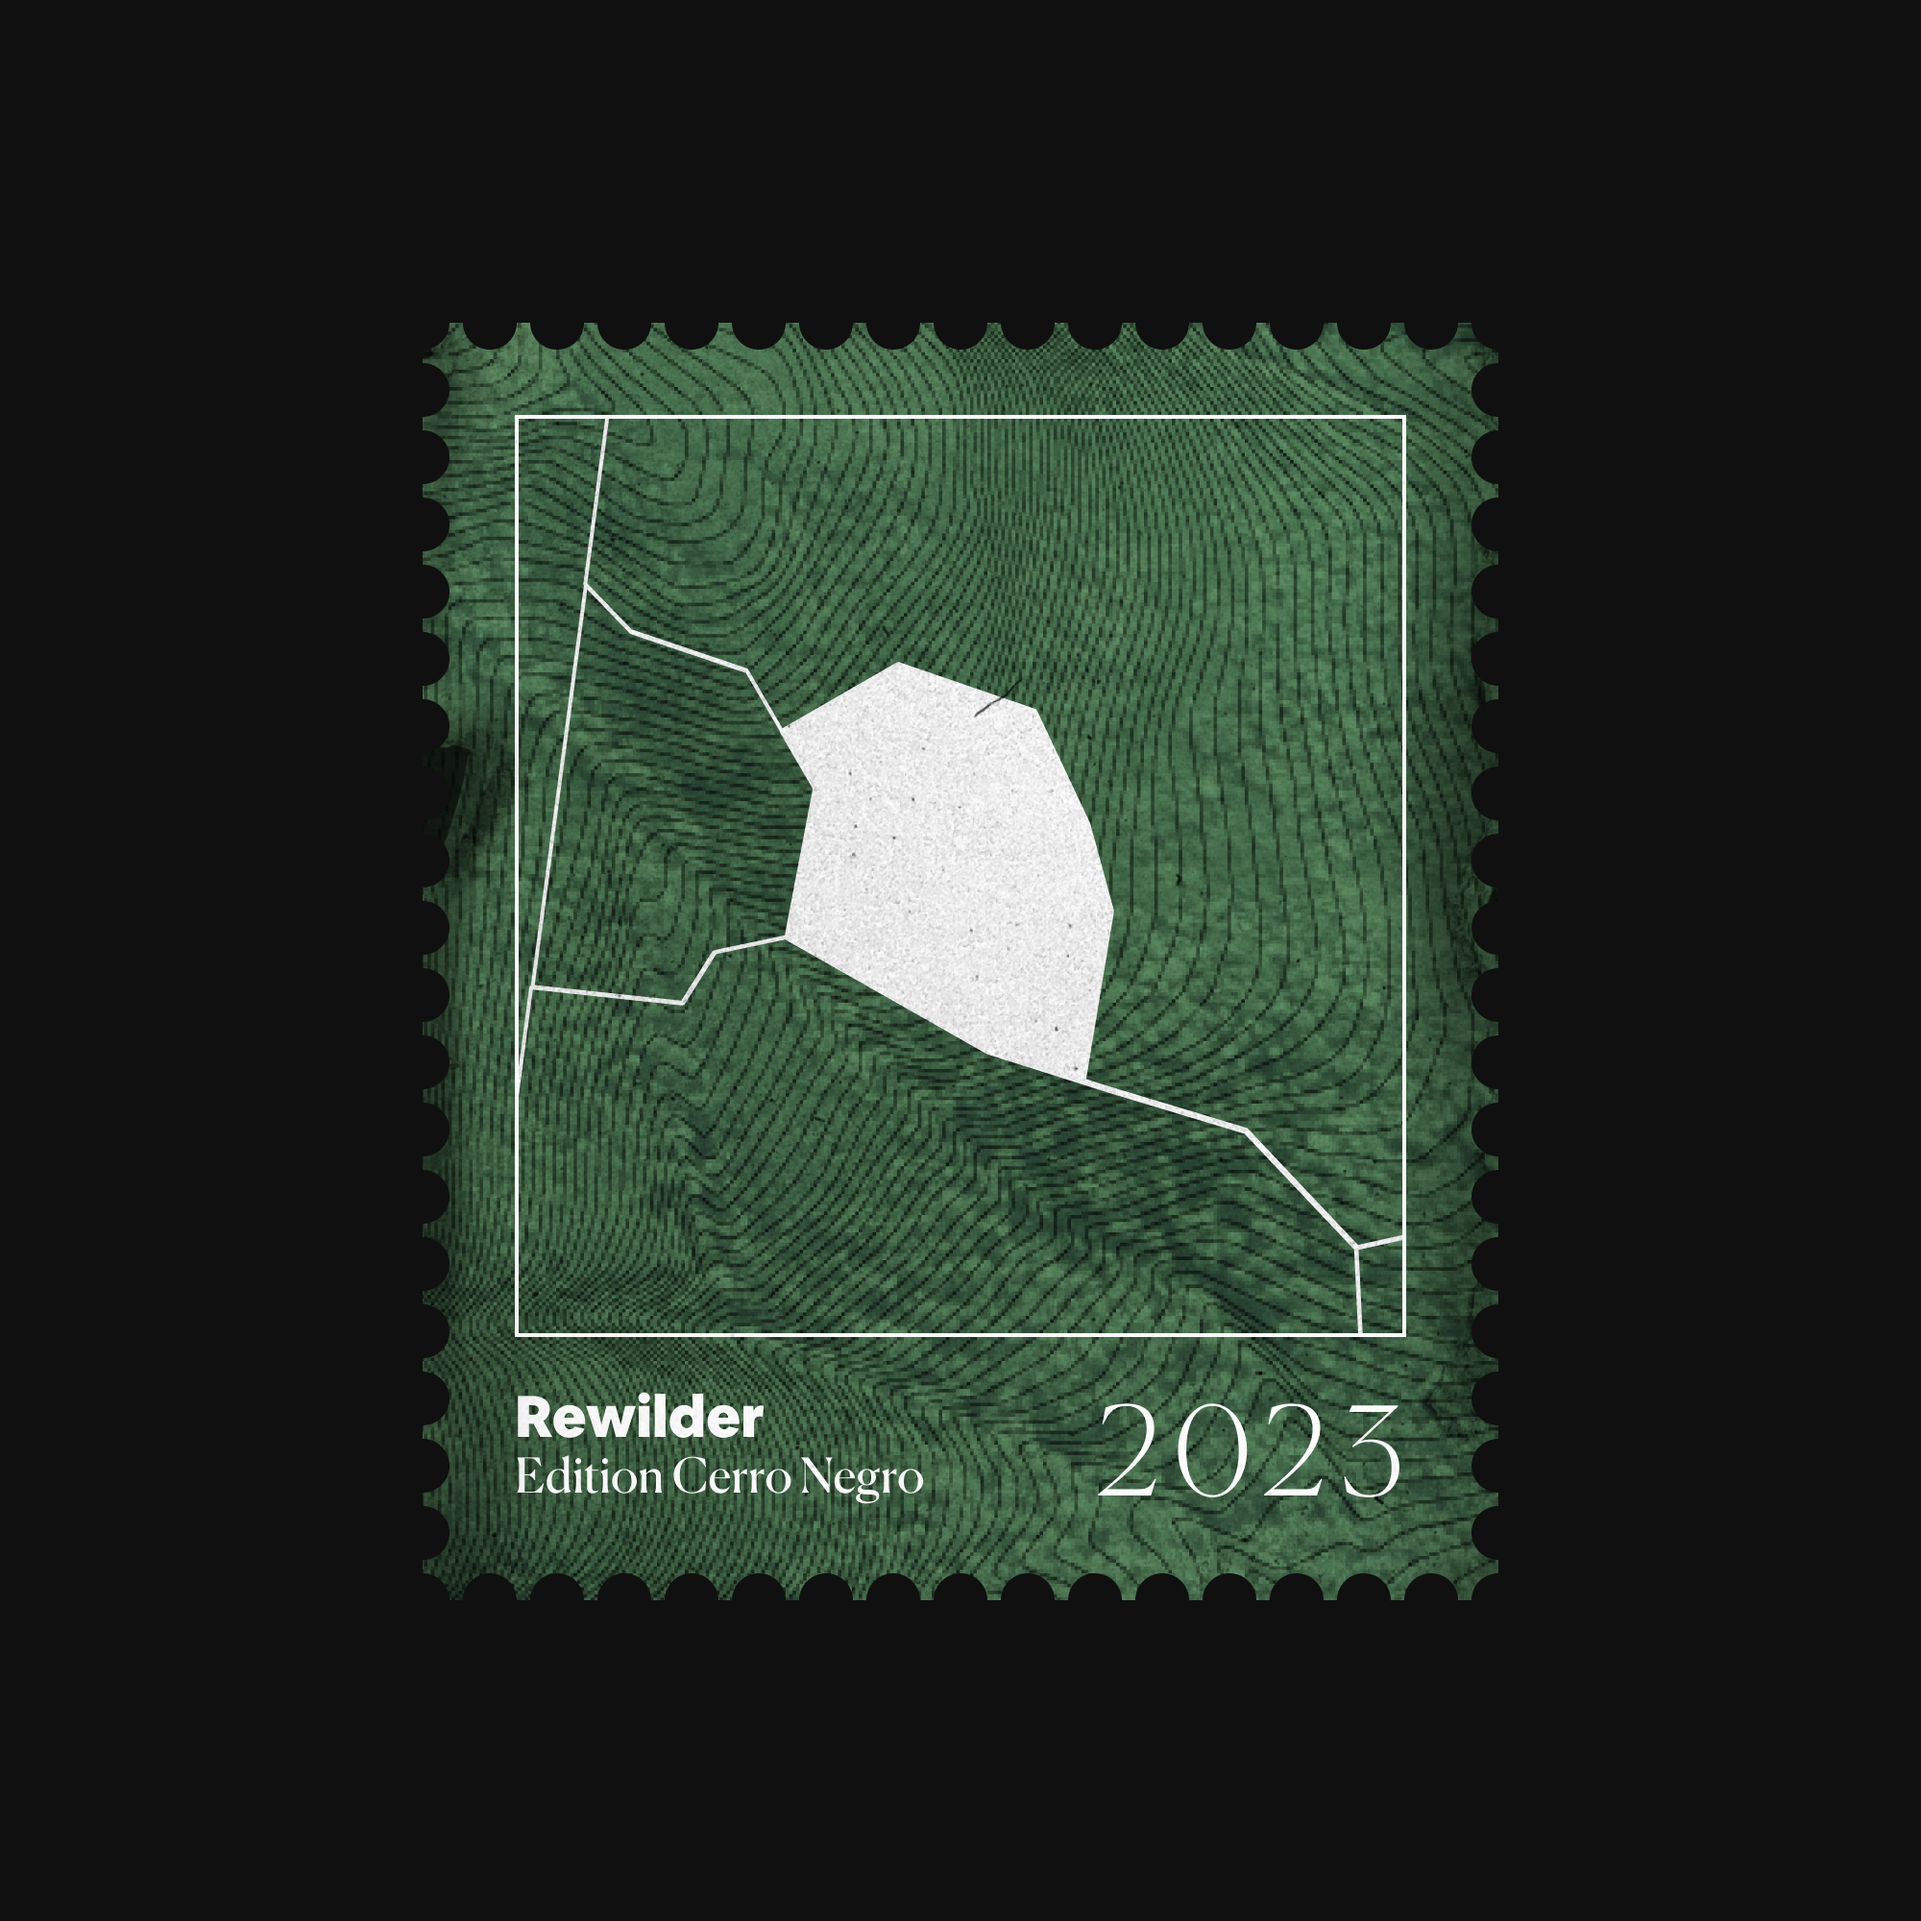
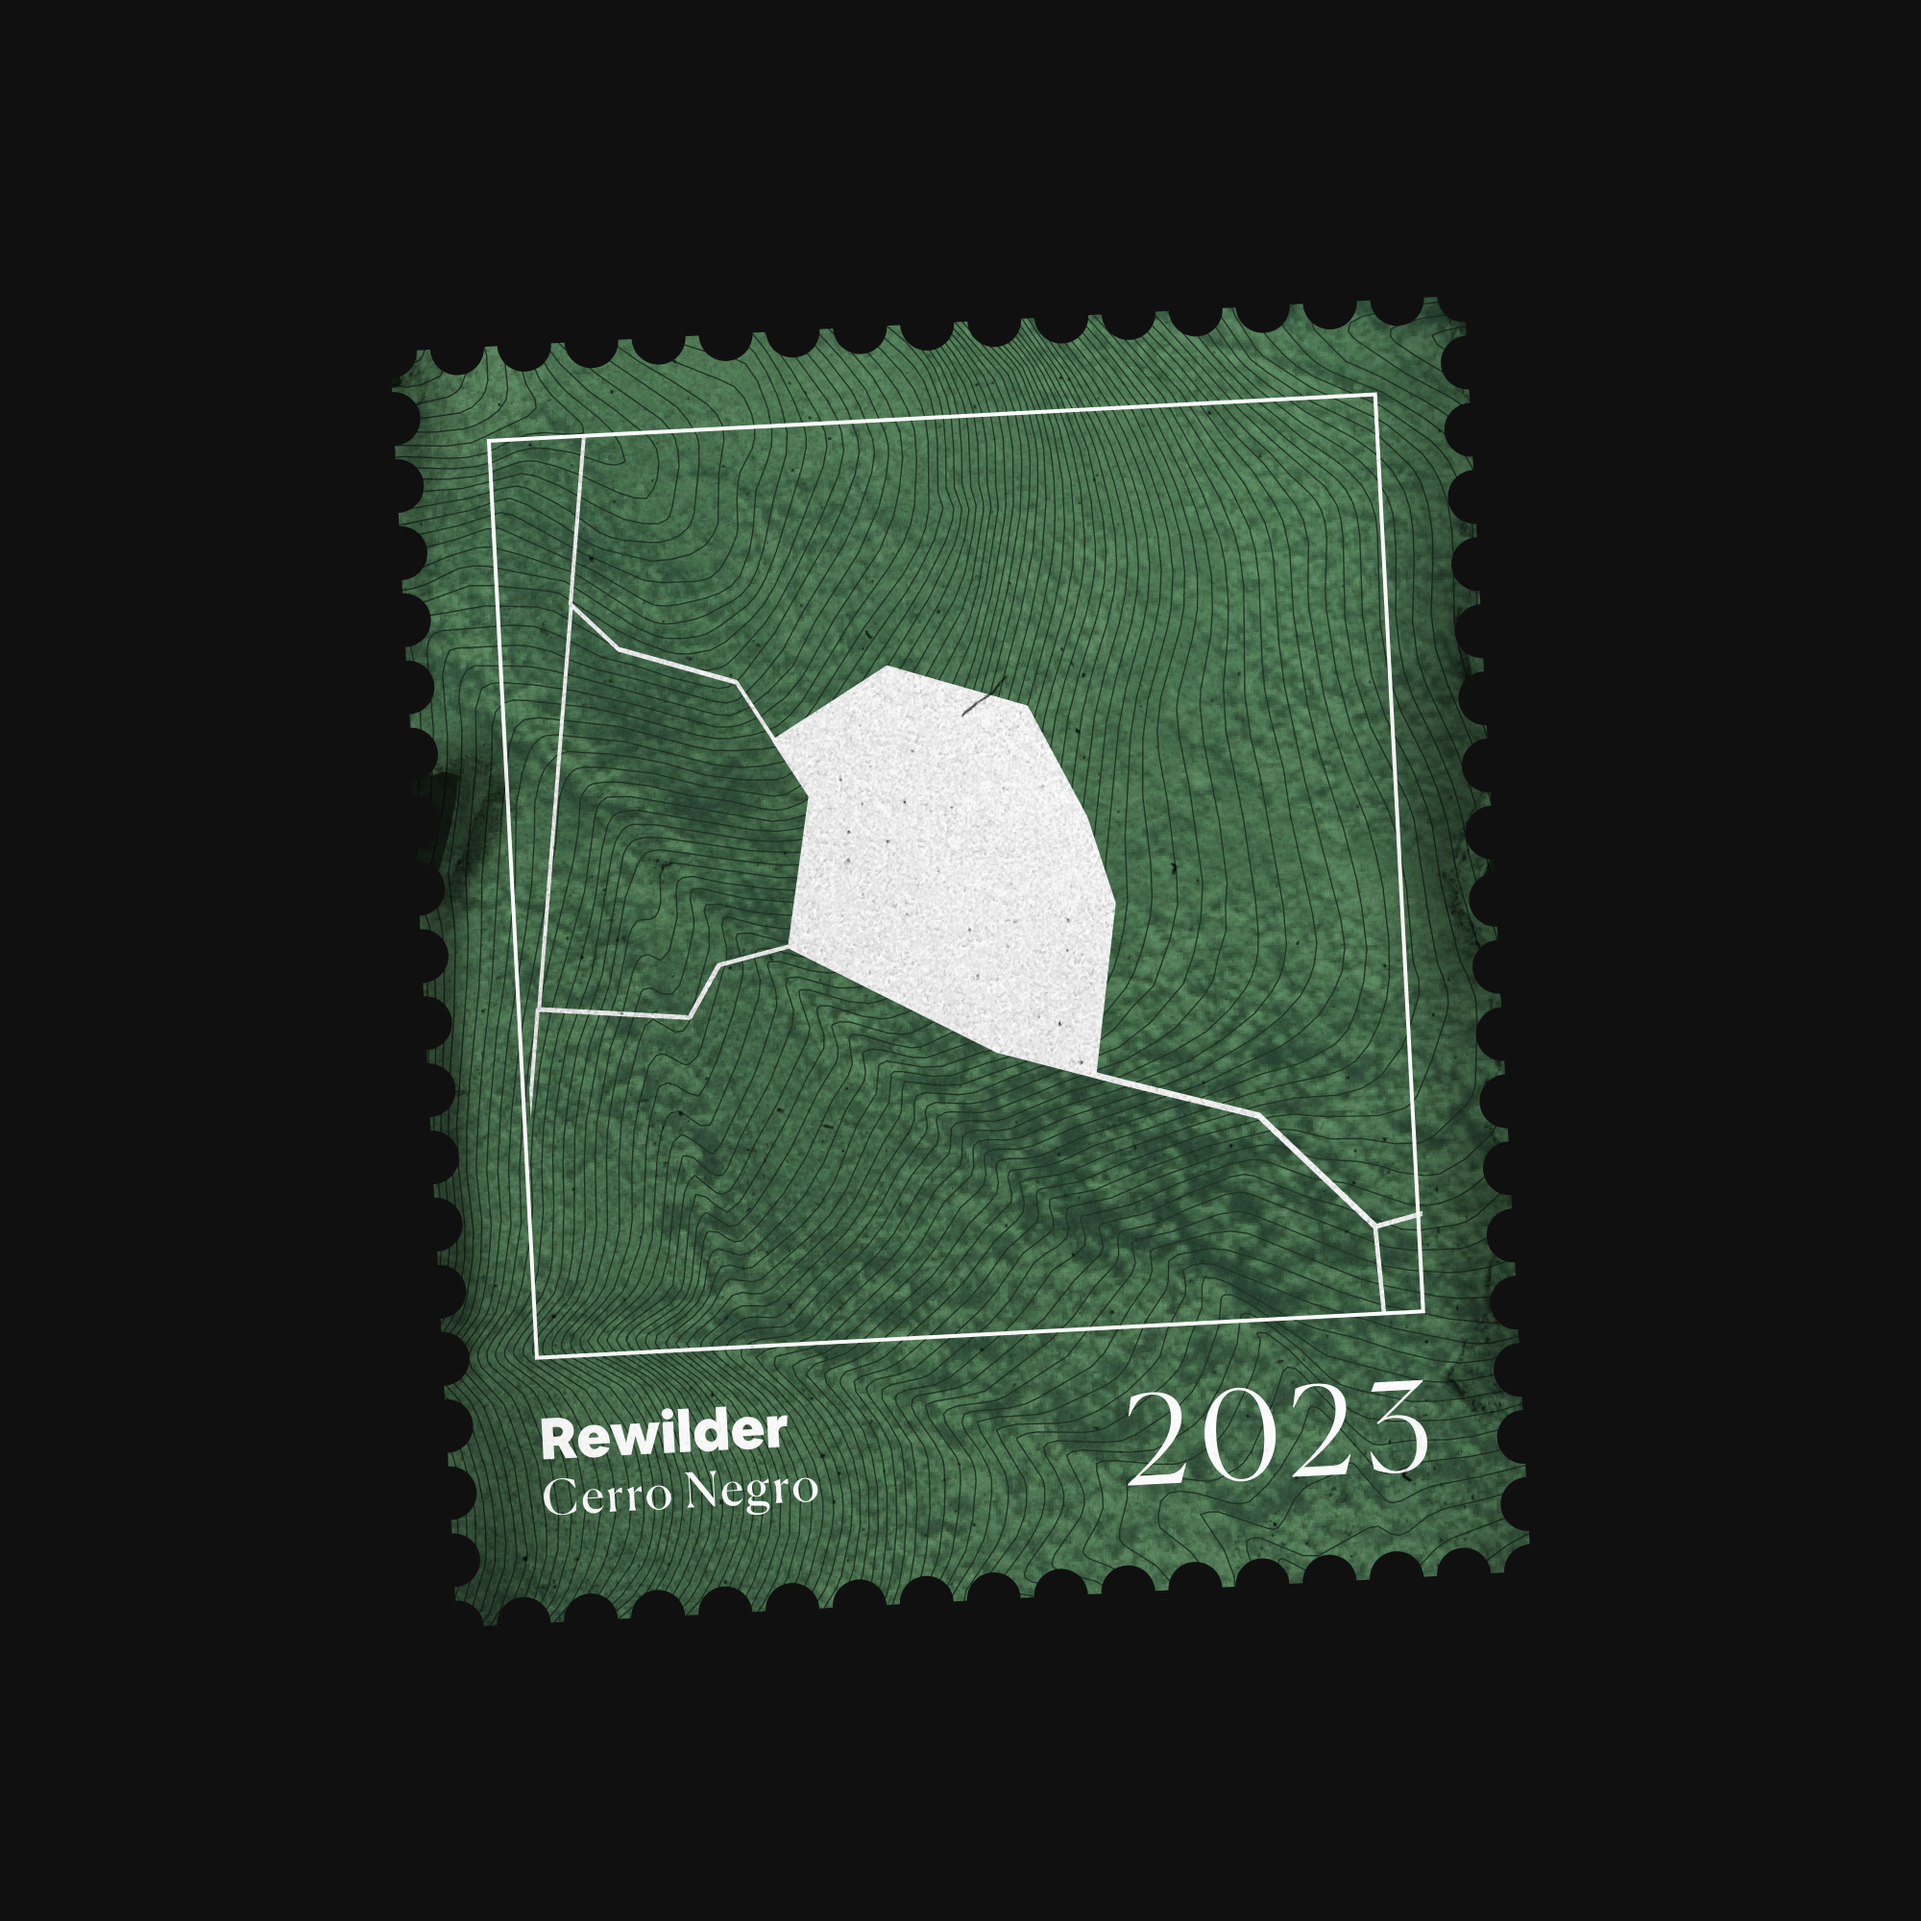
new donation nft images

Changed region(s): [[0.186, 0.155, 0.806, 0.837]]

diff --git a/src/pages/api/v1/[tokenId].js b/src/pages/api/v1/[tokenId].js
@@ -25,7 +25,7 @@ export default async (req, res) => {
     description: token.description || "",
     external_url: token.external_url,
     updates: updatesURL,
-    image: token.image || "https://rewilder.xyz/assets/img/social/avatar.png",
+    image: `https://app.rewilder.xyz/assets/img/donation/{tokenId}.png`,
     attributes: token.attributes.map(
       (attribute) => {
         return {"trait_type": attribute.trait_type, "value": attribute.value};
